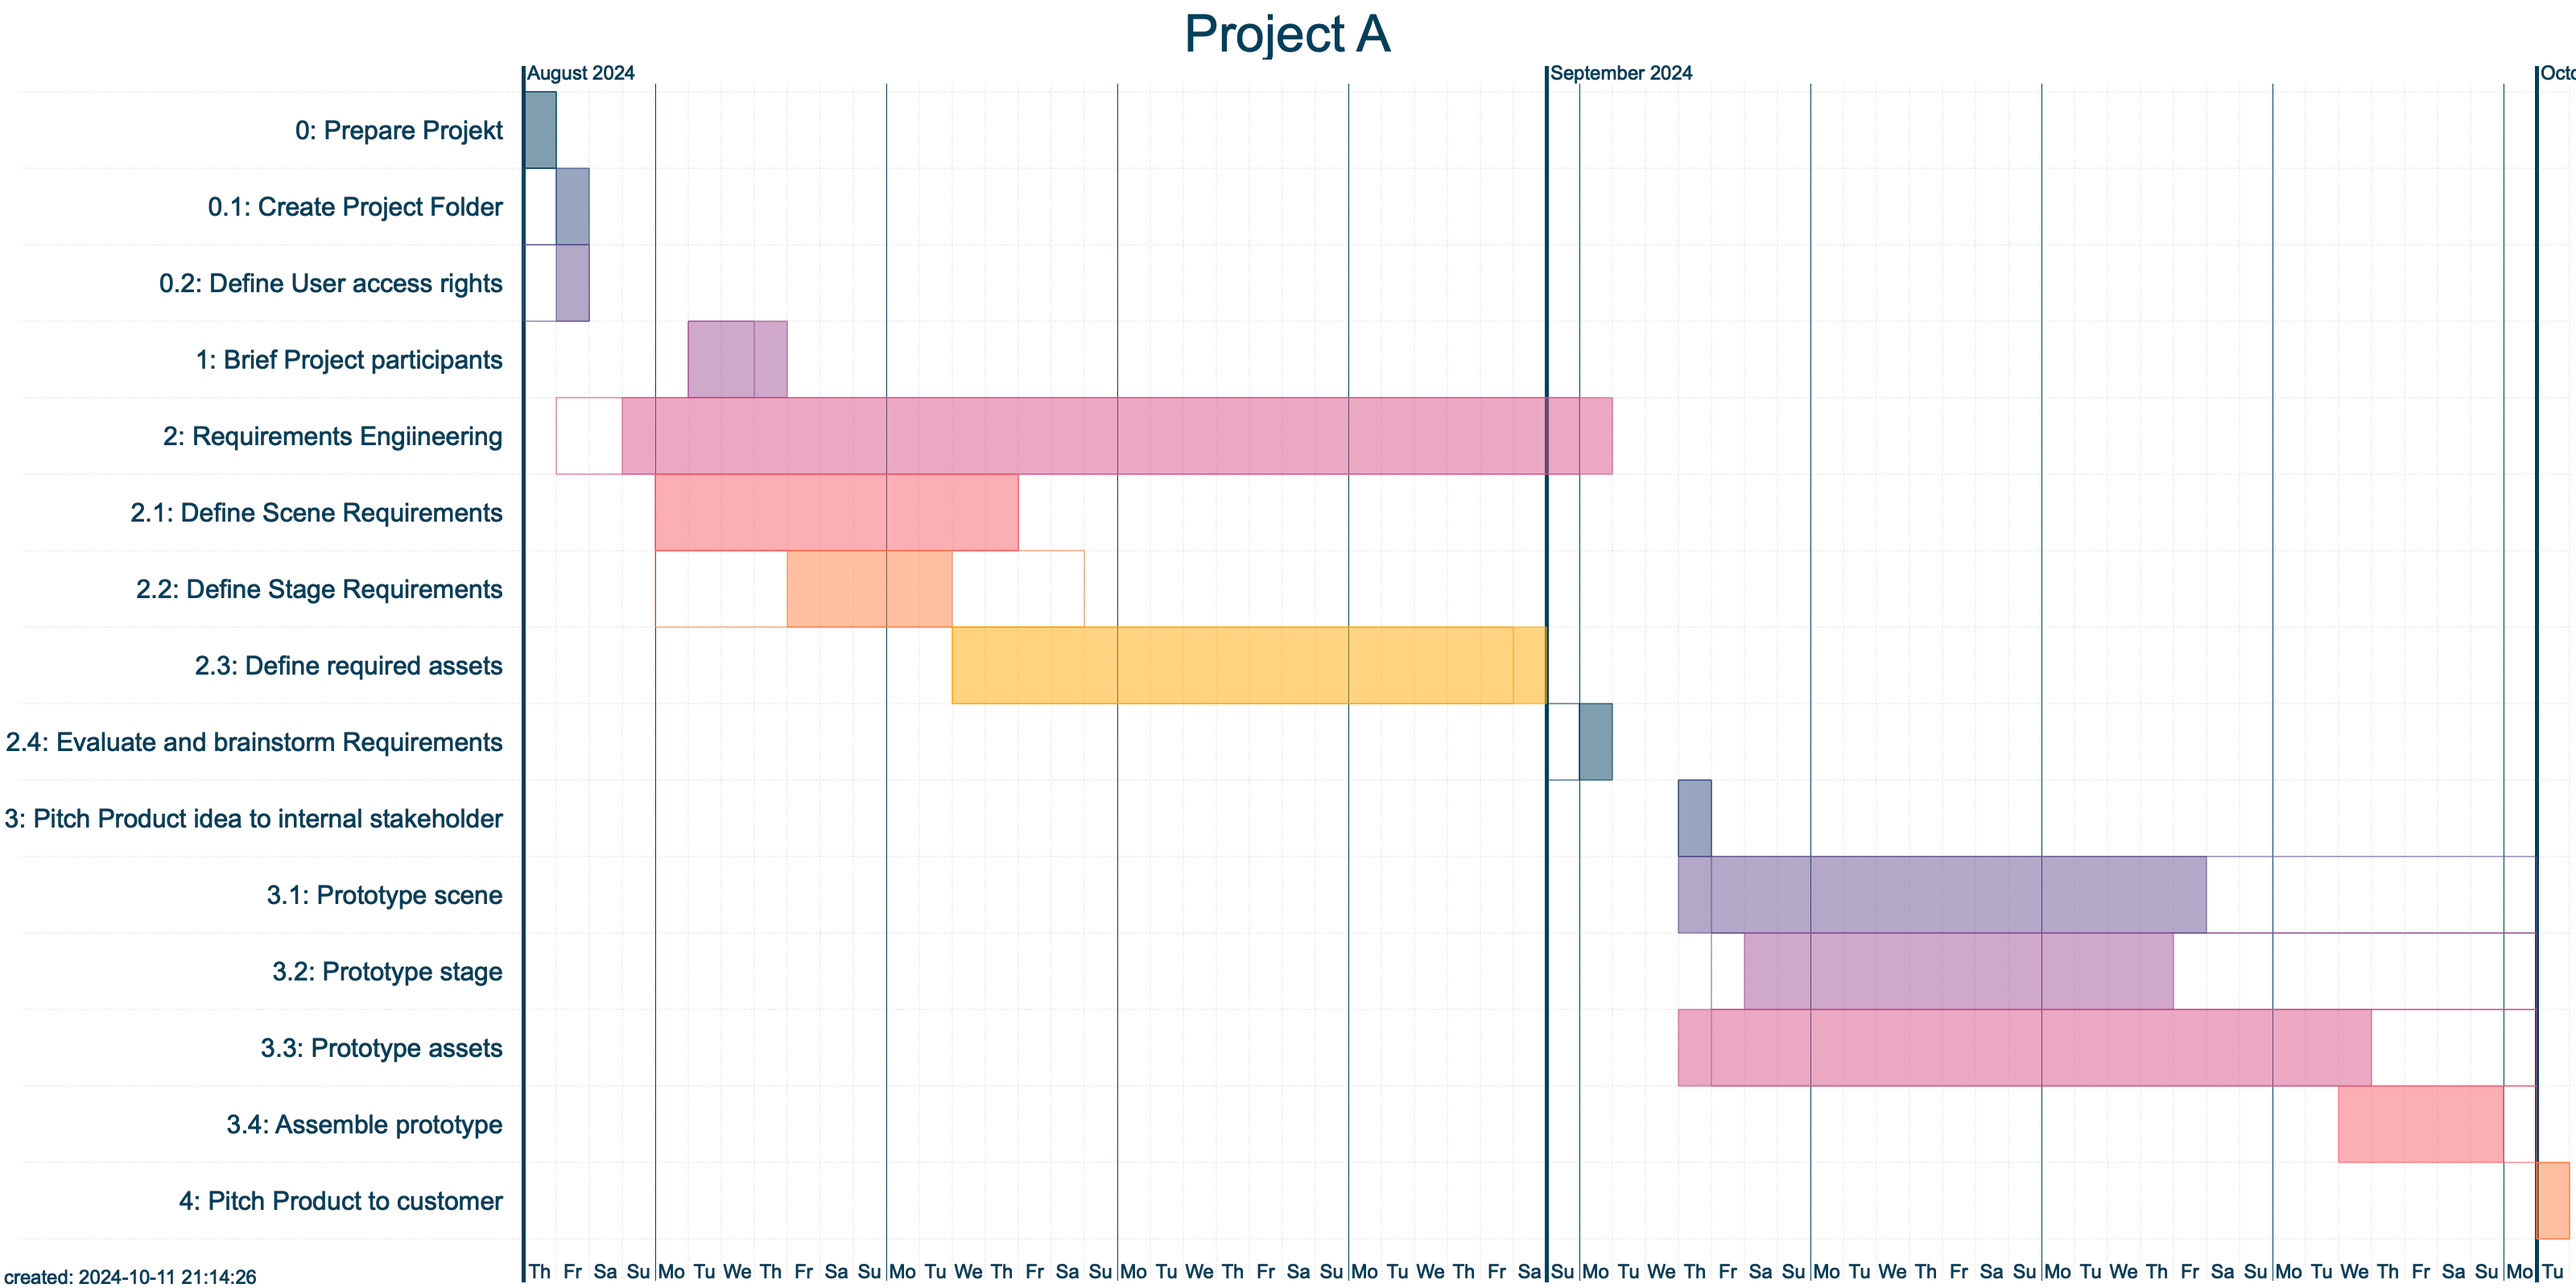
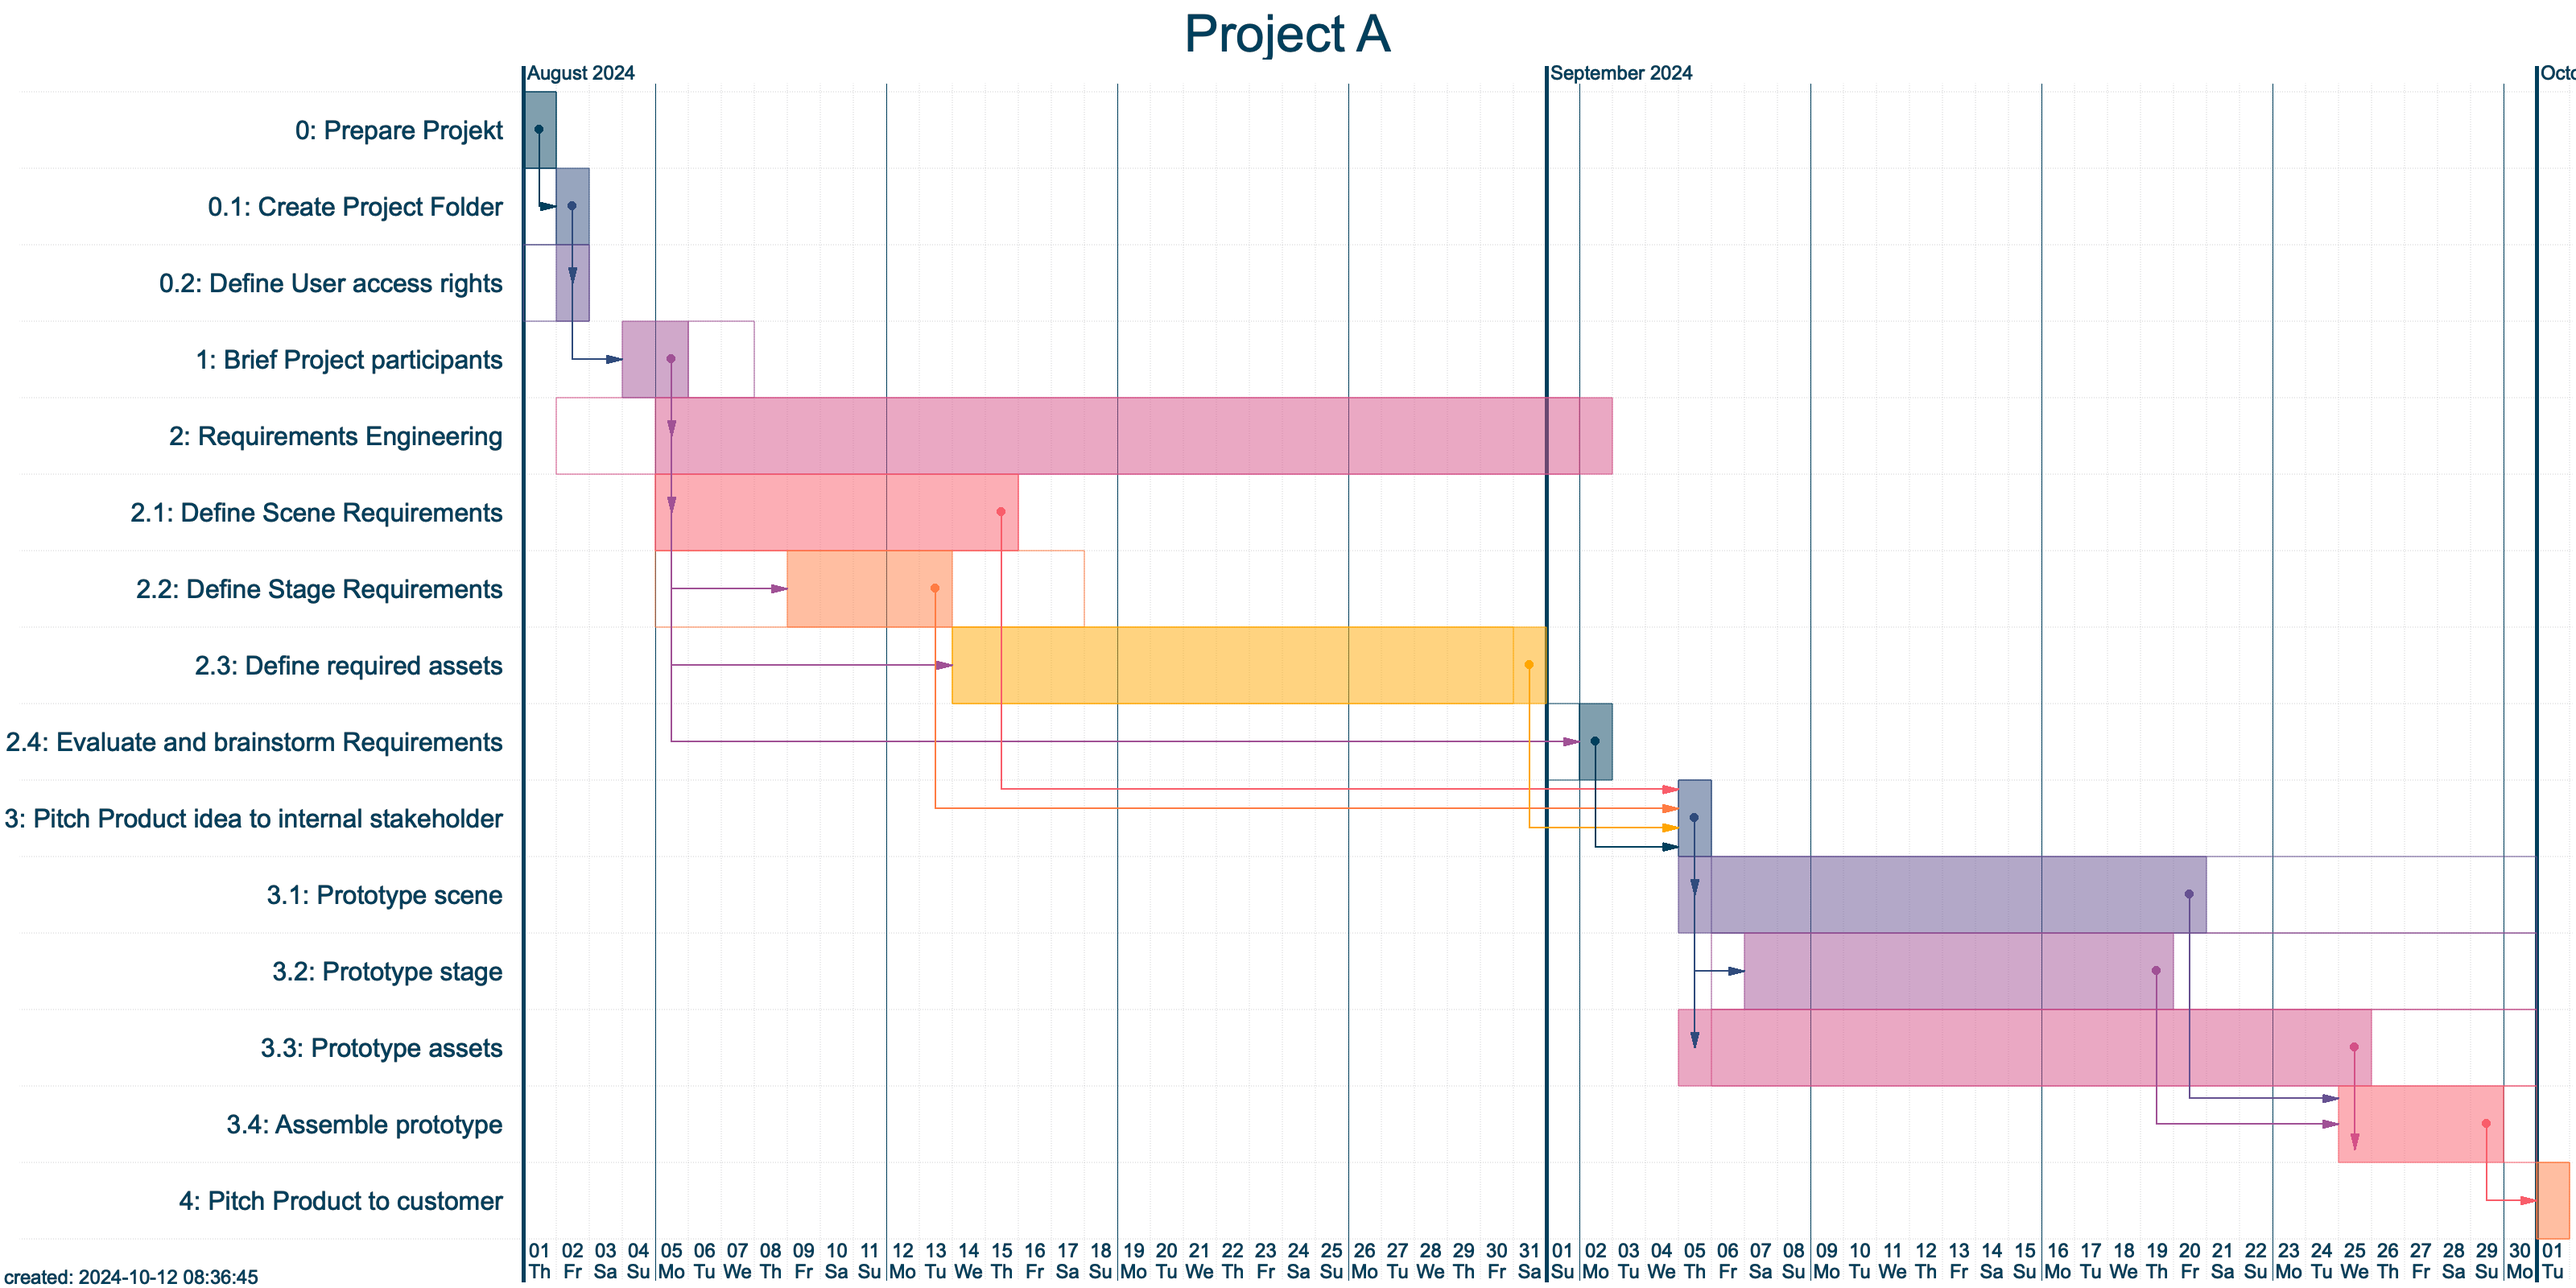
added arrows as well as day-numbers in x-axis

diff --git a/ganttmaker.py b/ganttmaker.py
@@ -2,7 +2,7 @@ import datetime
 import sys
 import pandas as pd
 import os
-from PySide6.QtGui import QImage, QPainter, QPen, QFont, QGuiApplication, QColor, QBrush
+from PySide6.QtGui import QImage, QPainter, QPen, QFont, QGuiApplication, QColor, QBrush, QPainterPath
 from PySide6.QtCore import Qt
 
 _units = {
@@ -87,8 +87,8 @@ class Dataloader:
         data['Actual-Start'] = pd.to_datetime(data['Actual-Start'], format='%d.%m.%Y')
         data['Plan-End'] = pd.to_datetime(data['Plan-End'], format='%d.%m.%Y')
         data['Actual-End'] = pd.to_datetime(data['Actual-End'], format='%d.%m.%Y')
-        data['Task'] = data['Task']
-        data['Predecessor'] = data['Predecessor']
+        #data['Task'] = data['Task']
+        #data['Predecessor'] = data['Predecessor']
         self._data = data
 
     @property
@@ -144,6 +144,11 @@ class Figure:
 
             legend_color: QColor - color of the legend
         """
+        self._arrow_pen_width: float = 2.0
+        self._title_pen_width: float = 2.0
+        self._legend_pen_width = 2.0
+        self._axes_pen_width: float = 1.0
+        self._grid_pen_width: float = 0.5
         self._title_color: QColor = QColor('black')
         self._time_highlightline_width: tuple[float, float] = (0.75, 2.5)
         self._time_highlightline_color: QColor = QColor('red')
@@ -164,6 +169,95 @@ class Figure:
         self._title_font = QFont("Arial", 24)
         self._legend_font = QFont("Arial", 12)
         self._legend_color = QColor('black')
+
+    @property
+    def title_pen_width(self) -> float:
+        """
+        Property that holds the width of the title lines.
+
+        Returns:
+            float: width of the title lines
+        """
+        return self._title_pen_width
+
+    @title_pen_width.setter
+    def title_pen_width(self, width: float):
+        if not isinstance(width, float):
+            raise TypeError("title_pen_width must be a float")
+        elif width < 0:
+            raise ValueError("title_pen_width must be a positive float")
+        self._title_pen_width = width
+
+    @property
+    def arrow_pen_width(self) -> float:
+        """
+        Property that holds the width of the arrow lines.
+
+        Returns:
+            float: width of the arrow lines
+        """
+        return self._arrow_pen_width
+
+    @arrow_pen_width.setter
+    def arrow_pen_width(self, width: float):
+        if not isinstance(width, float):
+            raise TypeError("arrow_pen_width must be a float")
+        elif width < 0:
+            raise ValueError("arrow_pen_width must be a positive float")
+        self._arrow_pen_width = width
+    @property
+    def legend_pen_width(self) -> float:
+        """
+        Property that holds the width of the legend lines.
+
+        Returns:
+            float: width of the legend lines
+        """
+        return self._legend_pen_width
+
+    @legend_pen_width.setter
+    def legend_pen_width(self, width: float):
+        if not isinstance(width, float):
+            raise TypeError("legend_pen_width must be a float")
+        elif width < 0:
+            raise ValueError("legend_pen_width must be a positive float")
+        self._legend_pen_width = width
+
+    @property
+    def axes_pen_width(self) -> float:
+        """
+        Property that holds the width of the axes lines.
+
+        Returns:
+            float: width of the axes lines
+        """
+        return self._axes_pen_width
+
+    @axes_pen_width.setter
+    def axes_pen_width(self, width: float):
+        if not isinstance(width, float):
+            raise TypeError("axes_pen_width must be a float")
+        elif width < 0:
+            raise ValueError("axes_pen_width must be a positive float")
+        self._axes_pen_width = width
+
+    @property
+    def grid_pen_width(self) -> float:
+        """
+        Property that holds the width of the grid lines.
+
+        Returns:
+            float: width of the grid lines
+        """
+        return self._grid_pen_width
+
+    @grid_pen_width.setter
+    def grid_pen_width(self, width: float):
+        if not isinstance(width, float):
+            raise TypeError("grid_pen_width must be a float")
+        elif width < 0:
+            raise ValueError("grid_pen_width must be a positive float")
+        self._grid_pen_width = width
 
     @property
     def time_highlightline_width(self) -> tuple[float, float]:
@@ -491,7 +585,6 @@ class Figure:
         task_height: int = self._define_task_height(figure_height)
         task_width: int = self._define_task_width(figure_width)
 
-        arrows_layer = QImage(self.canvas_size[0], self.canvas_size[1], QImage.Format.Format_ARGB32)
         image = QImage(self.canvas_size[0], self.canvas_size[1], QImage.Format.Format_ARGB32)
         image.fill(self.background_color)
 
@@ -500,12 +593,12 @@ class Figure:
 
         # pen initialization
         box_pen = QPen(self._box_color, self.box_width, Qt.PenStyle.SolidLine)
-        grid_pen = QPen(Qt.GlobalColor.gray, 0.5, Qt.PenStyle.DotLine)
-        axes_pen = QPen(self.axes_color, 2, Qt.PenStyle.SolidLine)
-        legend_pen = QPen(self.legend_color, 2, Qt.PenStyle.SolidLine)
+        grid_pen = QPen(Qt.GlobalColor.gray, self.grid_pen_width, Qt.PenStyle.DotLine)
+        axes_pen = QPen(self.axes_color, self.axes_pen_width, Qt.PenStyle.SolidLine)
+        legend_pen = QPen(self.legend_color, self.legend_pen_width, Qt.PenStyle.SolidLine)
         graph_pen = QPen(Qt.GlobalColor.blue, self.task_line_width, Qt.PenStyle.SolidLine)
-        title_pen = QPen(self.title_color, 2, Qt.PenStyle.SolidLine)
-        arrows_pen = QPen(Qt.GlobalColor.black, 2, Qt.PenStyle.SolidLine)
+        title_pen = QPen(self.title_color, self.title_pen_width, Qt.PenStyle.SolidLine)
+        arrow_pen = QPen(Qt.GlobalColor.black, self.arrow_pen_width, Qt.PenStyle.SolidLine)
 
         # draw image layers
         box_layer = self.draw_box_layer(box_pen, figure_start, figure_width, figure_height, painter)
@@ -519,6 +612,8 @@ class Figure:
                                        task_width, 'Actual-Start', 'Actual-End', plan=False)
         axes_layer = self.draw_xaxis(figure_start, figure_height, task_width, painter, axes_pen, self.axes_font, 'Plan-End')
 
+        arrows_layer = self.draw_arrows(figure_start, task_width, task_height, painter, arrow_pen)
+
         # combine all layers
         painter.begin(image)
         painter.drawImage(0, 0, box_layer)
@@ -531,6 +626,72 @@ class Figure:
 
         # save image
         image.save(self.export_file)
+
+    def draw_arrows(self, start, t_width, t_height, painter, pen):
+        """
+        Method that draws arrows at the end of each task.
+
+        Parameters:
+            start: tuple[int, int], starting point of the figure
+            t_width: int, width of a task
+            t_height: int, height of a task
+            painter: QPainter object (painting device)
+            pen: QPen object, pen for the arrows
+        """
+
+        arrowslayer = QImage(self.canvas_size[0], self.canvas_size[1], QImage.Format.Format_ARGB32)
+        painter.begin(arrowslayer)
+        for i, task in enumerate(self._loader._data.itertuples()):
+            predecessors: list = str(self._loader.data['Predecessor'].loc[i]).split(';')
+            if predecessors[0] != 'nan':
+                # print(predecessors)
+                for j, pred in enumerate(predecessors):
+                    record = self._loader._data[self._loader._data['Task'] == pred]
+                    start_date = record['Actual-End'].iloc[0].date()
+                    end_date = self._loader._data['Actual-Start'][i].date()
+                    x_start = ((start_date - self.start_date).days + 1) * t_width + start[0] + self.render_metrics.horizontal_padding - t_width/2
+                    pred_idx = self._loader.data.index[self._loader.data['Task'] == pred].tolist()[0]
+                    y_start = start[1] + self.render_metrics.vertical_padding + pred_idx*t_height + t_height/2
+                    if start_date == end_date:
+                        x_end = (end_date - self.start_date).days * t_width + start[0] + self.render_metrics.horizontal_padding + t_width/2
+                    else:
+                        x_end = (end_date - self.start_date).days * t_width + start[0] + self.render_metrics.horizontal_padding
+                    if len(predecessors) > 1:
+                        y_end = start[1] + self.render_metrics.vertical_padding + i*t_height + j * (t_height / len(predecessors)) + (t_height / len(predecessors))/2
+                    else:
+                        y_end = start[1] + self.render_metrics.vertical_padding + i*t_height + t_height/2
+                    circle = 0.1 * t_height
+                    pen.setColor(QColor(_colors[pred_idx % len(_colors)]))
+                    brush = QBrush(pen.color())
+                    painter.setBrush(brush)
+                    painter.setPen(pen)
+
+                    # define arrow head
+                    arrow_head = QPainterPath()
+                    if start_date == end_date:
+                        arrow_head.moveTo(x_end - circle / 2, y_end - circle*2)
+                        arrow_head.lineTo(x_end + circle / 2, y_end - circle*2)
+                        arrow_head.lineTo(x_end, y_end)
+                        arrow_head.closeSubpath()
+                    else:
+                        arrow_head.moveTo(x_end - circle * 2, y_end - circle / 2)
+                        arrow_head.lineTo(x_end - circle * 2, y_end + circle / 2)
+                        arrow_head.lineTo(x_end, y_end)
+                        arrow_head.closeSubpath()
+
+                    # starting dot
+                    painter.drawEllipse(x_start - circle/2, y_start - circle/2, circle, circle)
+
+                    # connection lines
+                    painter.drawLine(x_start, y_start, x_start, y_end)
+                    painter.drawLine(x_start, y_end, x_end, y_end)
+
+                    # arrow head
+                    painter.drawPath(arrow_head)
+
+
+        painter.end()
+        return arrowslayer
 
     def draw_monday_lines(self, layer, figure_start, painter, task_width, column):
         """
@@ -585,11 +746,19 @@ class Figure:
             y = start[1] + height + self.render_metrics.vertical_padding
             date = self.start_date + datetime.timedelta(days=i)
             text = date.strftime('%A')[0:2]
+            day_text = date.strftime('%d')
             painter.drawText(
                 x, y,
                 task_width, self.render_metrics.axis_height,
                 Qt.AlignmentFlag.AlignCenter,
-                text)
+                text
+            )
+            painter.drawText(
+                x, y - self.render_metrics.axis_height - self.render_metrics.axis_padding,
+                task_width, self.render_metrics.axis_height + self.render_metrics.axis_padding,
+                Qt.AlignmentFlag.AlignHCenter | Qt.AlignmentFlag.AlignTop,
+                day_text
+            )
             if date.day == 1:
                 painter.drawText(
                     x + self.render_metrics.horizontal_padding,
